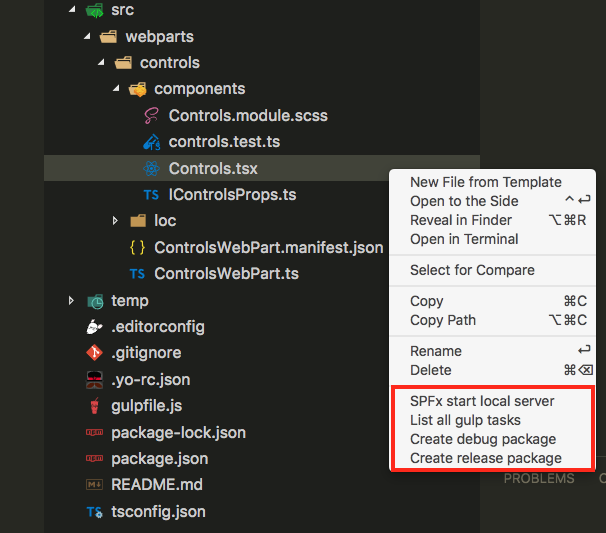
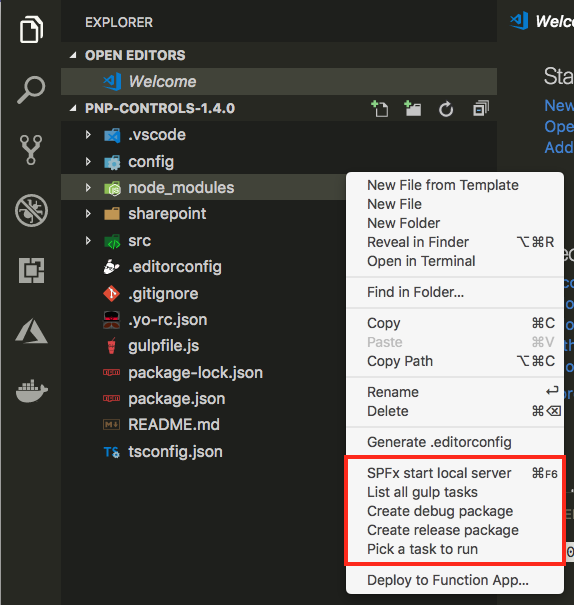
Update for 0.0.2 release

diff --git a/src/TaskRunner.ts b/src/TaskRunner.ts
@@ -91,4 +91,30 @@ export class TaskRunner {
       }           
     }
   }
+
+  /**
+   * Show task options
+   */
+  public static async showOptions() {
+    // Get all gulp tasks
+    const tasks = await vscode.tasks.fetchTasks({ type: "gulp" });
+    // Let the dev choose the task to run
+    const pickedTask = await vscode.window.showQuickPick(tasks.map(t => t.name), { canPickMany: false, placeHolder: "Pick the task to run"});
+    // Check if a task was picked
+    if (pickedTask) {
+      vscode.window.showInformationMessage(`Starting the ${pickedTask} task`);
+      try {
+        const task = tasks.find(t => t.name === pickedTask);
+        if (task) {
+          await vscode.tasks.executeTask(task);
+        } else {
+          vscode.window.showErrorMessage(`Didn't find the selected task...`);
+        }
+      } catch (error) {
+        if (error.stack) {
+          vscode.window.showErrorMessage(error.stack);
+        }
+      }  
+    }
+  }
 }

diff --git a/src/extension.ts b/src/extension.ts
@@ -40,7 +40,11 @@ export function activate(context: vscode.ExtensionContext) {
   let serve = vscode.commands.registerCommand('spfxTaskRunner.serve', async () => {
     await TaskRunner.serve();
   });
-  
+
+  // Start serving the local server
+  let pickTask = vscode.commands.registerCommand('spfxTaskRunner.pickTask', async () => {
+    await TaskRunner.showOptions();
+  });
   
   // Fix to only show the menu actions when the extension activation conditions were met
   vscode.commands.executeCommand('setContext', 'spfxProjectCheck', true);
@@ -50,7 +54,8 @@ export function activate(context: vscode.ExtensionContext) {
     taskList,
     pkgDebug,
     pkgRelease,
-    serve
+    serve,
+    pickTask
   );
 }
 

diff --git a/README.md b/README.md
@@ -1,6 +1,6 @@
 # SharePoint Framework Task Runner Extension for Visual Studio Code
 
-This extension allows you to easily run SharePoint Framework tasks with a couple of mouse clicks. At the moment you can for example list all the available gulp tasks in your project, start the local development server and create debug or release solution packages.
+This extension allows you to easily run SharePoint Framework tasks with a couple of mouse clicks. At the moment you can for example list all the available gulp tasks in your project, start the local development server and create debug or release solution packages or pick a task to run from the list of available tasks.
 
 ## Usage
 
@@ -15,6 +15,10 @@ When you, for example, click on `SPFx start local server` it will execute the `g
 If you want to know which `gulp` tasks are available, you can click on the `List all gulp tasks` action and it will present you a list like this (this varies depending on the custom gulp tasks you might have defined):
 
 ![Gulp tasks](./assets/gulp-tasks.png)
+
+You can also pick one of the available gulp tasks by clicking on `Pick a task to run`. This gives you a list of available tasks of which you can pick one to run:
+
+![Pick a task and run](./assets/pick-task-vscode.gif)
 
 ## Keyboard bindings
 

diff --git a/CHANGELOG.md b/CHANGELOG.md
@@ -1,5 +1,11 @@
 # Change Log
 
+## [0.0.2] - 2018-08-02
+
+**Enhancement**
+
+- Added the ability to pick and run one of the available tasks
+
 ## [0.0.1] - 2018-08-01
 
 - Initial release
